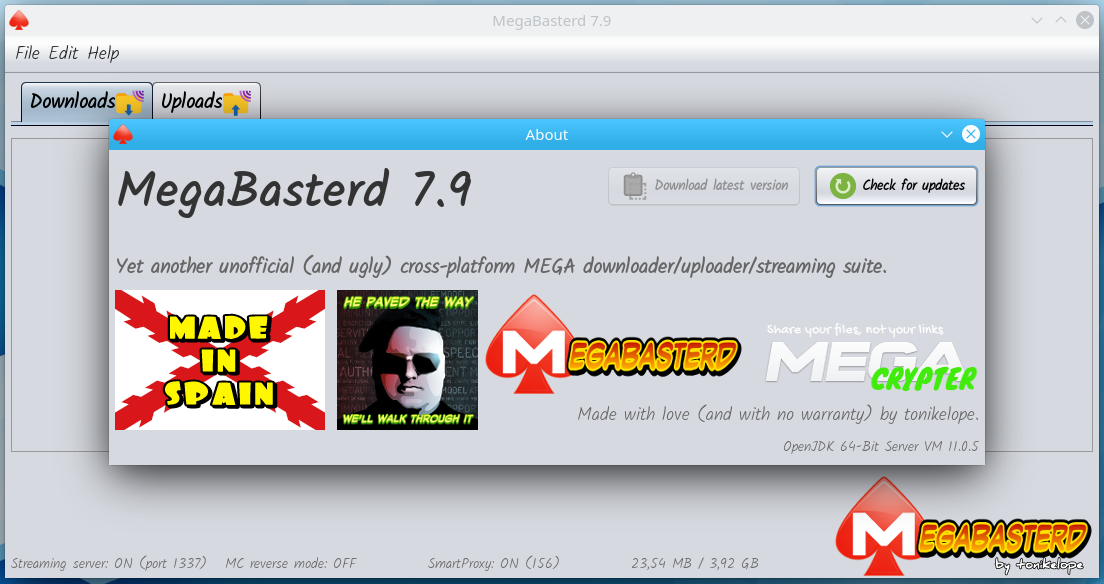
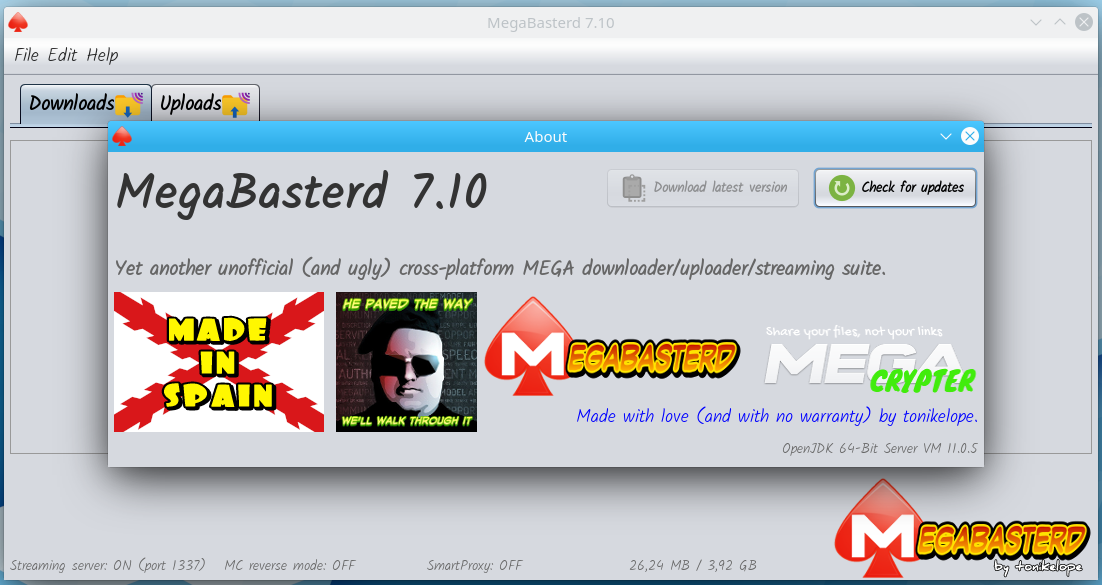
7.10
- SmartProxy auto refresh -> 15 secs wait
- SmartProxy 509 block -> 300 secs

(cherry picked from commit 74cdeada798da19897aa91258171aa8e3fbf0e66)
(cherry picked from commit 24e4098753590a4866d472bfc112f6c019d722d6)

# Conflicts:
#	src/main/java/com/tonikelope/megabasterd/SmartMegaProxyManager.java

diff --git a/src/main/java/com/tonikelope/megabasterd/SmartMegaProxyManager.java b/src/main/java/com/tonikelope/megabasterd/SmartMegaProxyManager.java
@@ -1,6 +1,5 @@
 package com.tonikelope.megabasterd;
 
-import static com.tonikelope.megabasterd.MiscTools.swingInvoke;
 import java.io.ByteArrayOutputStream;
 import java.io.IOException;
 import java.io.InputStream;
@@ -21,7 +20,8 @@ import java.util.logging.Logger;
 public final class SmartMegaProxyManager {
 
     public static String DEFAULT_SMART_PROXY_URL = "https://raw.githubusercontent.com/Bilibox/megabasterd/proxy_list/proxy_list.txt";
-    public static final int PROXY_BLOCK_TIME = 180;
+    public static final int PROXY_BLOCK_TIME = 300;
+    public static final int PROXY_AUTO_REFRESH_SLEEP_TIME = 15;
     private static final Logger LOG = Logger.getLogger(SmartMegaProxyManager.class.getName());
     private volatile String _proxy_list_url;
     private final LinkedHashMap<String, Long> _proxy_list;
@@ -56,7 +56,13 @@ public final class SmartMegaProxyManager {
             }
         }
 
-        LOG.log(Level.WARNING, "{0} Smart Proxy Manager: NO PROXYS AVAILABLE!! (Refreshing...)", new Object[]{Thread.currentThread().getName()});
+        LOG.log(Level.WARNING, "{0} Smart Proxy Manager: NO PROXYS AVAILABLE!! (Refreshing in " + String.valueOf(PROXY_AUTO_REFRESH_SLEEP_TIME) + " secs...)", new Object[]{Thread.currentThread().getName()});
+
+        try {
+            Thread.sleep(PROXY_AUTO_REFRESH_SLEEP_TIME * 1000);
+        } catch (InterruptedException ex) {
+            Logger.getLogger(SmartMegaProxyManager.class.getName()).log(Level.SEVERE, null, ex);
+        }
 
         refreshProxyList();
 
@@ -69,7 +75,7 @@ public final class SmartMegaProxyManager {
 
             _proxy_list.put(proxy, System.currentTimeMillis() + PROXY_BLOCK_TIME * 1000);
 
-            LOG.log(Level.WARNING, "{0} Smart Proxy Manager: BLOCKING PROXY -> {1}", new Object[]{Thread.currentThread().getName(), proxy});
+            LOG.log(Level.WARNING, "{0} Smart Proxy Manager: BLOCKING PROXY -> {1} ({2} secs)", new Object[]{Thread.currentThread().getName(), proxy, PROXY_BLOCK_TIME});
         }
     }
 
@@ -150,16 +156,13 @@ public final class SmartMegaProxyManager {
                     }
                 }
 
-                swingInvoke(() -> {
-                    _main_panel.getView().updateSmartProxyStatus("SmartProxy: ON (" + String.valueOf(getProxyCount()) + ")");
-                });
+                _main_panel.getView().updateSmartProxyStatus("SmartProxy: ON (" + String.valueOf(getProxyCount()) + ")");
 
                 LOG.log(Level.INFO, "{0} Smart Proxy Manager: proxy list refreshed ({1})", new Object[]{Thread.currentThread().getName(), _proxy_list.size()});
 
             } else if (!custom_clean_list.isEmpty()) {
-                swingInvoke(() -> {
-                    _main_panel.getView().updateSmartProxyStatus("SmartProxy: ON (" + String.valueOf(getProxyCount()) + ")*");
-                });
+
+                _main_panel.getView().updateSmartProxyStatus("SmartProxy: ON (" + String.valueOf(getProxyCount()) + ")*");
 
                 LOG.log(Level.INFO, "{0} Smart Proxy Manager: proxy list refreshed ({1})", new Object[]{Thread.currentThread().getName(), _proxy_list.size()});
             }

diff --git a/src/main/java/com/tonikelope/megabasterd/MainPanelView.java b/src/main/java/com/tonikelope/megabasterd/MainPanelView.java
@@ -153,53 +153,54 @@ public final class MainPanelView extends javax.swing.JFrame {
 
     public void updateKissStreamServerStatus(final String status) {
 
-        String old_status = getKiss_server_status().getText();
+        swingInvoke(() -> {
+            String old_status = getKiss_server_status().getText();
 
-        if (!old_status.equals(status + " ")) {
-            Dimension frame_size = this.getSize();
+            if (!old_status.equals(status + " ")) {
+                Dimension frame_size = this.getSize();
 
-            swingInvoke(() -> {
                 getKiss_server_status().setText(status + " ");
 
                 pack();
                 setSize(frame_size);
-            });
-        }
 
+            }
+        });
     }
 
     public void updateSmartProxyStatus(final String status) {
 
-        String old_status = getSmart_proxy_status().getText();
+        swingInvoke(() -> {
+            String old_status = getSmart_proxy_status().getText();
 
-        if (!old_status.equals(status + " ")) {
-            Dimension frame_size = this.getSize();
+            if (!old_status.equals(status + " ")) {
+                Dimension frame_size = this.getSize();
 
-            swingInvoke(() -> {
                 getSmart_proxy_status().setText(status + " ");
 
                 pack();
                 setSize(frame_size);
-            });
-        }
 
+            }
+        });
     }
 
     public void updateMCReverseStatus(final String status) {
 
-        String old_status = getMc_reverse_status().getText();
+        swingInvoke(() -> {
 
-        if (!old_status.equals(status + " ")) {
-            Dimension frame_size = this.getSize();
+            String old_status = getMc_reverse_status().getText();
 
-            swingInvoke(() -> {
+            if (!old_status.equals(status + " ")) {
+                Dimension frame_size = this.getSize();
+
                 getMc_reverse_status().setText(status + " ");
 
                 pack();
                 setSize(frame_size);
-            });
-        }
 
+            }
+        });
     }
 
     private void _new_upload_dialog(FileGrabberDialog dialog) {

diff --git a/src/main/java/com/tonikelope/megabasterd/MainPanel.java b/src/main/java/com/tonikelope/megabasterd/MainPanel.java
@@ -55,7 +55,7 @@ import javax.swing.UIManager;
  */
 public final class MainPanel {
 
-    public static final String VERSION = "7.9";
+    public static final String VERSION = "7.10";
     public static final boolean FORCE_SMART_PROXY = false; //TRUE FOR DEBUGING SMART PROXY
     public static final int THROTTLE_SLICE_SIZE = 16 * 1024;
     public static final int DEFAULT_BYTE_BUFFER_SIZE = 16 * 1024;
@@ -347,9 +347,9 @@ public final class MainPanel {
             });
 
         } else {
-            swingInvoke(() -> {
-                getView().updateSmartProxyStatus("SmartProxy: OFF");
-            });
+
+            getView().updateSmartProxyStatus("SmartProxy: OFF");
+
         }
 
         swingInvoke(() -> {

diff --git a/src/main/java/com/tonikelope/megabasterd/ChunkDownloader.java b/src/main/java/com/tonikelope/megabasterd/ChunkDownloader.java
@@ -203,7 +203,7 @@ public class ChunkDownloader implements Runnable, SecureSingleThreadNotifiable {
 
                     } else {
 
-                        LOG.log(Level.INFO, "{0} Worker [{1}] SmartProxy getFastestProxy returned NULL! {2}", new Object[]{Thread.currentThread().getName(), _id, _download.getFile_name()});
+                        LOG.log(Level.INFO, "{0} Worker [{1}] SmartProxy getProxy returned NULL! {2}", new Object[]{Thread.currentThread().getName(), _id, _download.getFile_name()});
 
                         URL url = new URL(chunk_url);
 
